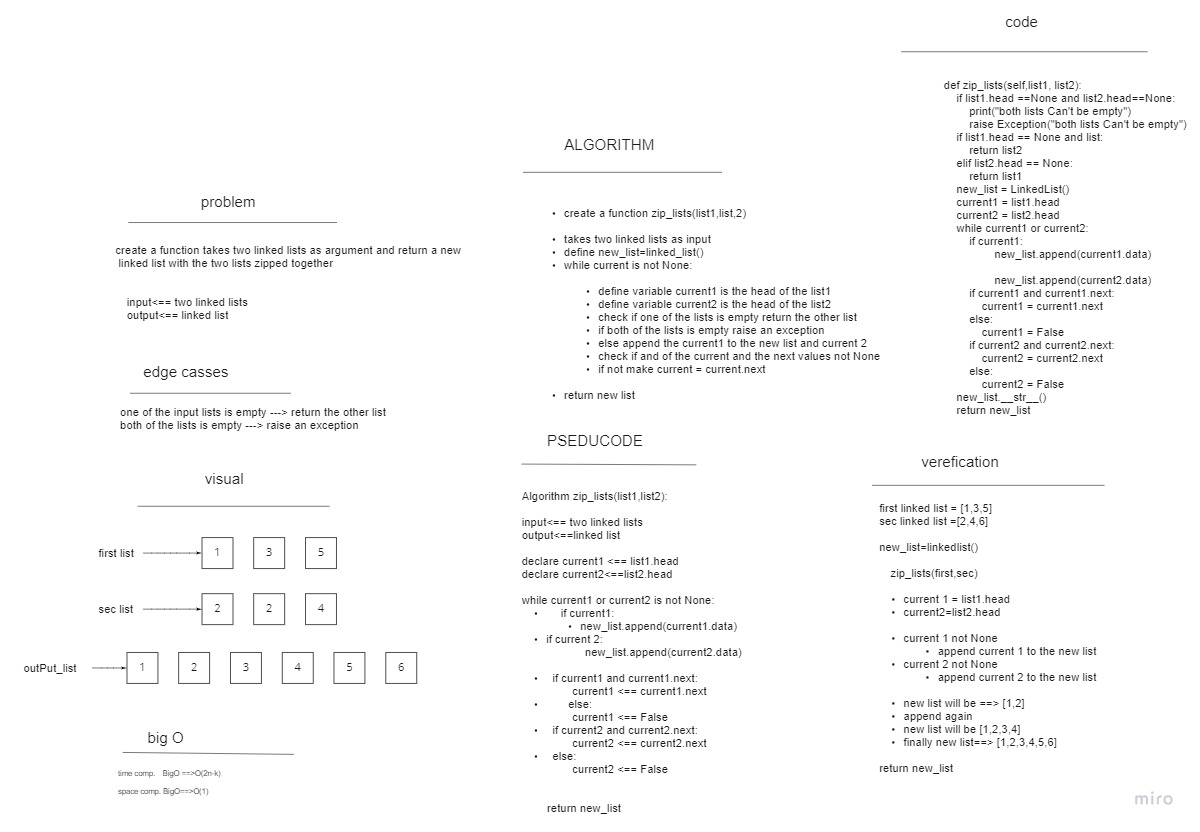
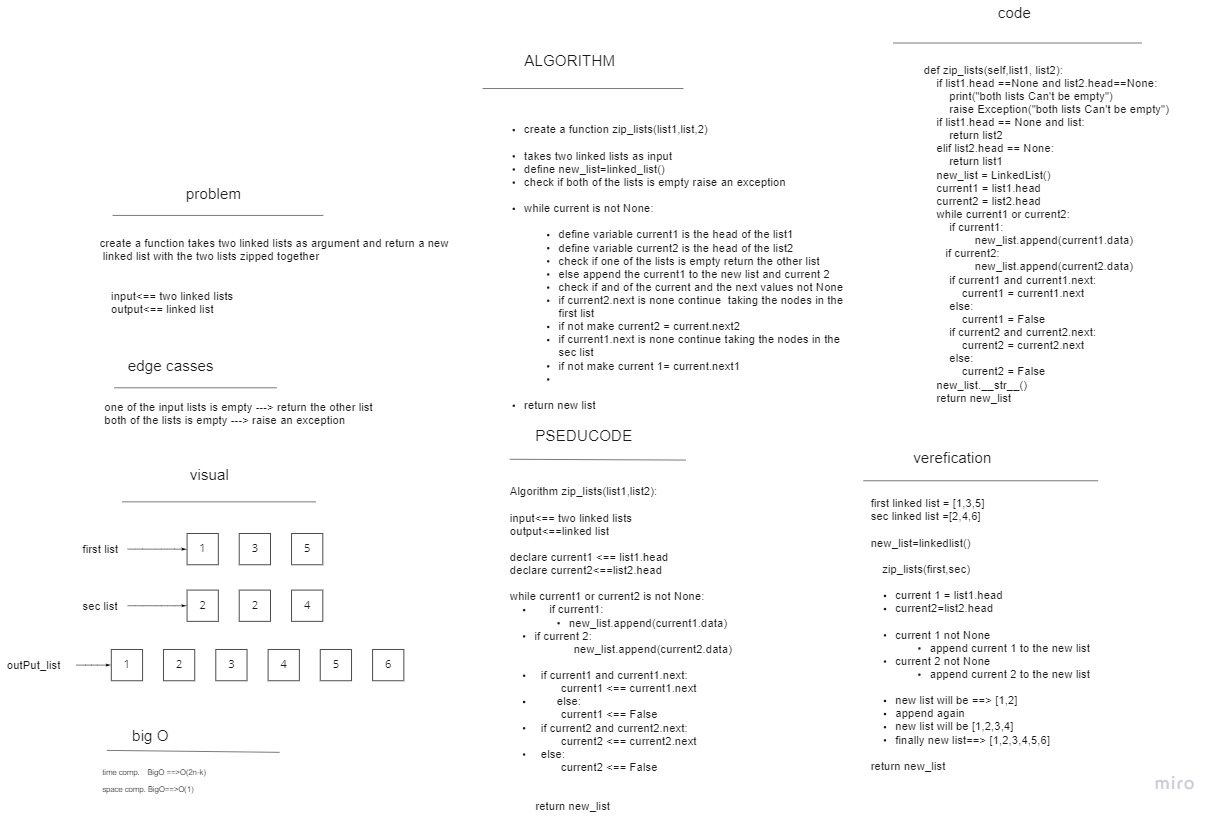
algorithm_tests_updated

diff --git a/linked-list/tests/test_linked_list.py b/linked-list/tests/test_linked_list.py
@@ -217,6 +217,7 @@ class TestlinkedList(unittest.TestCase):
 
 
     def test_linked_list_zip_happy_path(self):
+        
         ll1= LinkedList()
         ll1.insert(1)
         ll1.insert(3)
@@ -245,6 +246,24 @@ class TestlinkedList(unittest.TestCase):
         ll=LinkedList()
         with self.assertRaises(Exception):
             ll.zip_lists(ll1,ll2)
+
+    def test_zip_lists_if_the_length_is_different(self):
+        """
+        if one of the lists is bigger than the other the new list will take the nodes in the bigger one 
+        after the first one is done
+        """
+        ll1= LinkedList()
+        ll1.insert(1)
+        ll1.insert(3)
+        ll1.insert(5)
+        ll1.insert(7)
+        ll1.insert(9)
+        ll2= LinkedList()
+        ll2.insert(2)
+        ll2.insert(4)
+        ll2.insert(6)
+        ll=LinkedList()
+        self.assertEqual(ll.zip_lists(ll1,ll2).__str__,"1 --> 2 --> 3 --> 4 --> 5 --> 6 --> 7 --> 9 None")
 
 
 

diff --git a/linked-list/linked_list/linked_list.py b/linked-list/linked_list/linked_list.py
@@ -249,9 +249,9 @@ class LinkedList:
         current2 = list2.head
         while current1 or current2:
             if current1:
-                    new_list.append(current1.data)
-
-                    new_list.append(current2.data)
+                new_list.append(current1.data)
+            if current2:
+                new_list.append(current2.data)
             if current1 and current1.next:
                 current1 = current1.next
             else:
